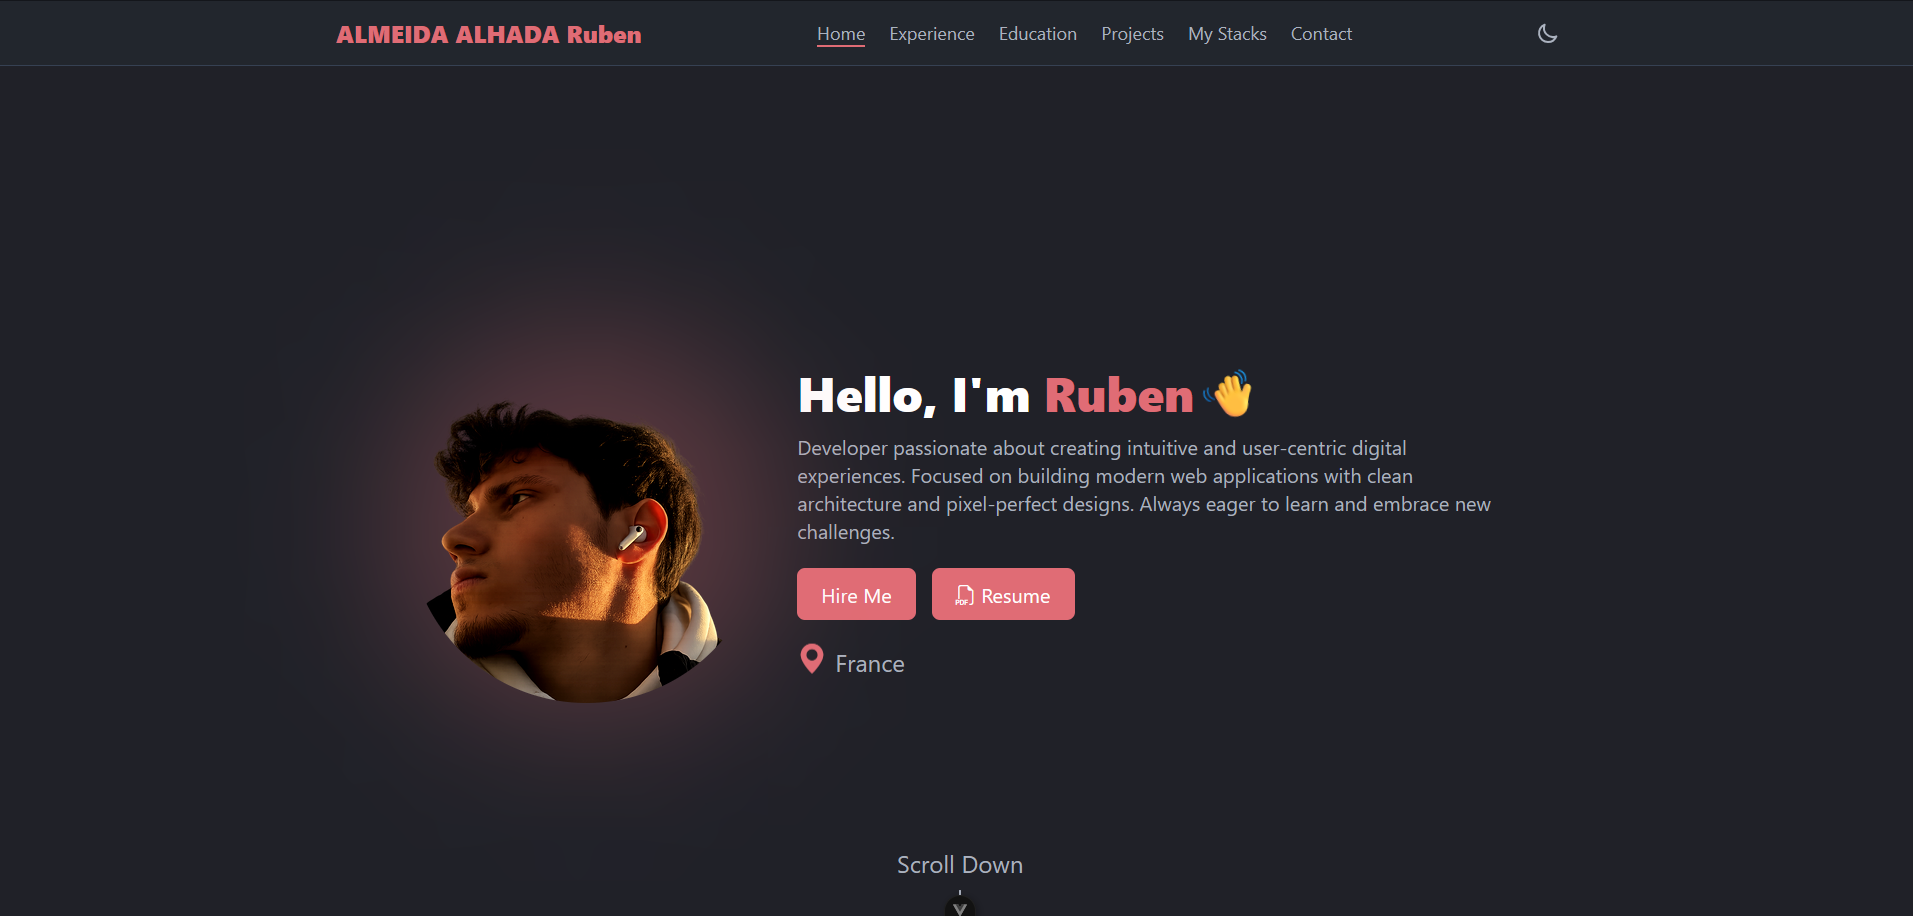
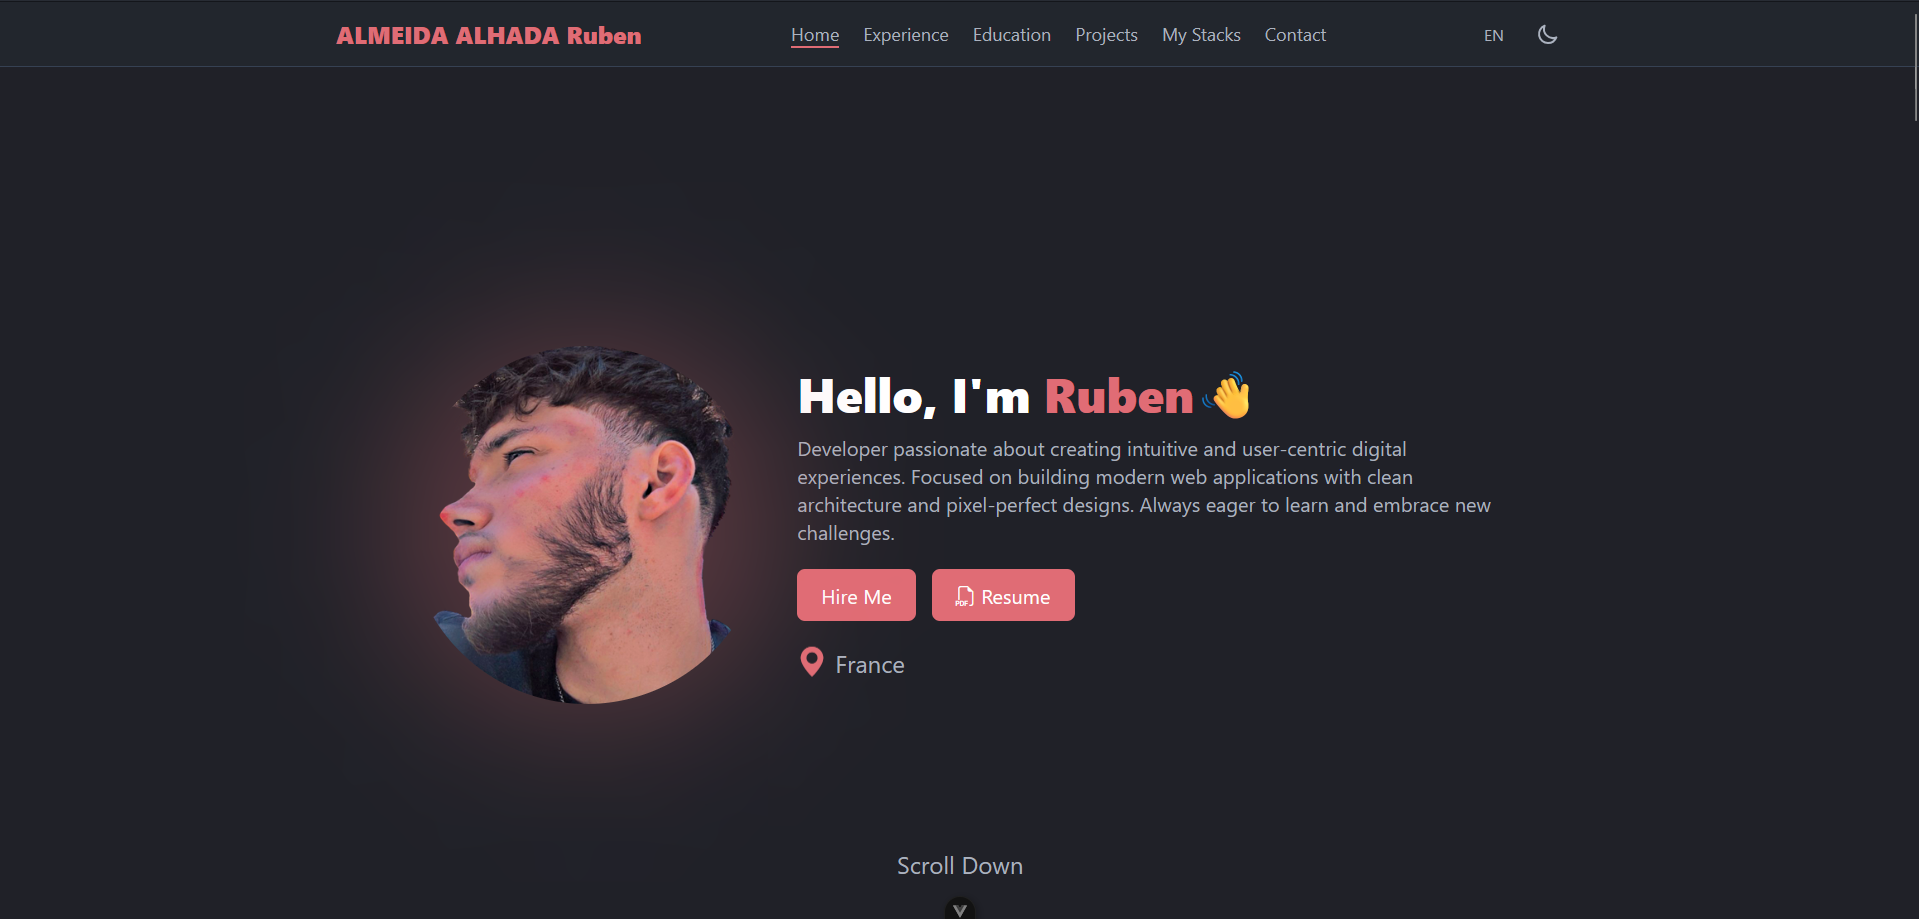
portfolio image changed

diff --git a/src/components/HeroSection.vue b/src/components/HeroSection.vue
@@ -25,16 +25,15 @@ const handleScrollClick = (event) => {
         <!-- Profile Photo - Full width on mobile, 1/3 on desktop -->
         <div class="w-2/3 md:w-1/3 aspect-square relative">
           <!-- Purple glow background -->
-          <div class="absolute inset-0 rounded-full bg-highlight-color/25 dark:bg-highlight-color/30 blur-3xl scale-110"></div>
-          
+          <div
+            class="absolute inset-0 rounded-full bg-highlight-color/25 dark:bg-highlight-color/30 blur-3xl scale-110">
+          </div>
+
           <!-- Image container -->
           <div class="relative w-full h-full rounded-full overflow-hidden">
-            <img 
-              src="/images/hero_section/goat.png"
-              class="w-full h-full object-cover scale-110"
-              style="object-position: center 70%;"
-              alt="Profile picture" 
-            />
+            <img src="/images/hero_section/goat2.png"
+              class="w-full h-full object-cover scale-125 transform translate-x-16 -translate-y-11"
+              alt="Profile picture" />
           </div>
         </div>
 
